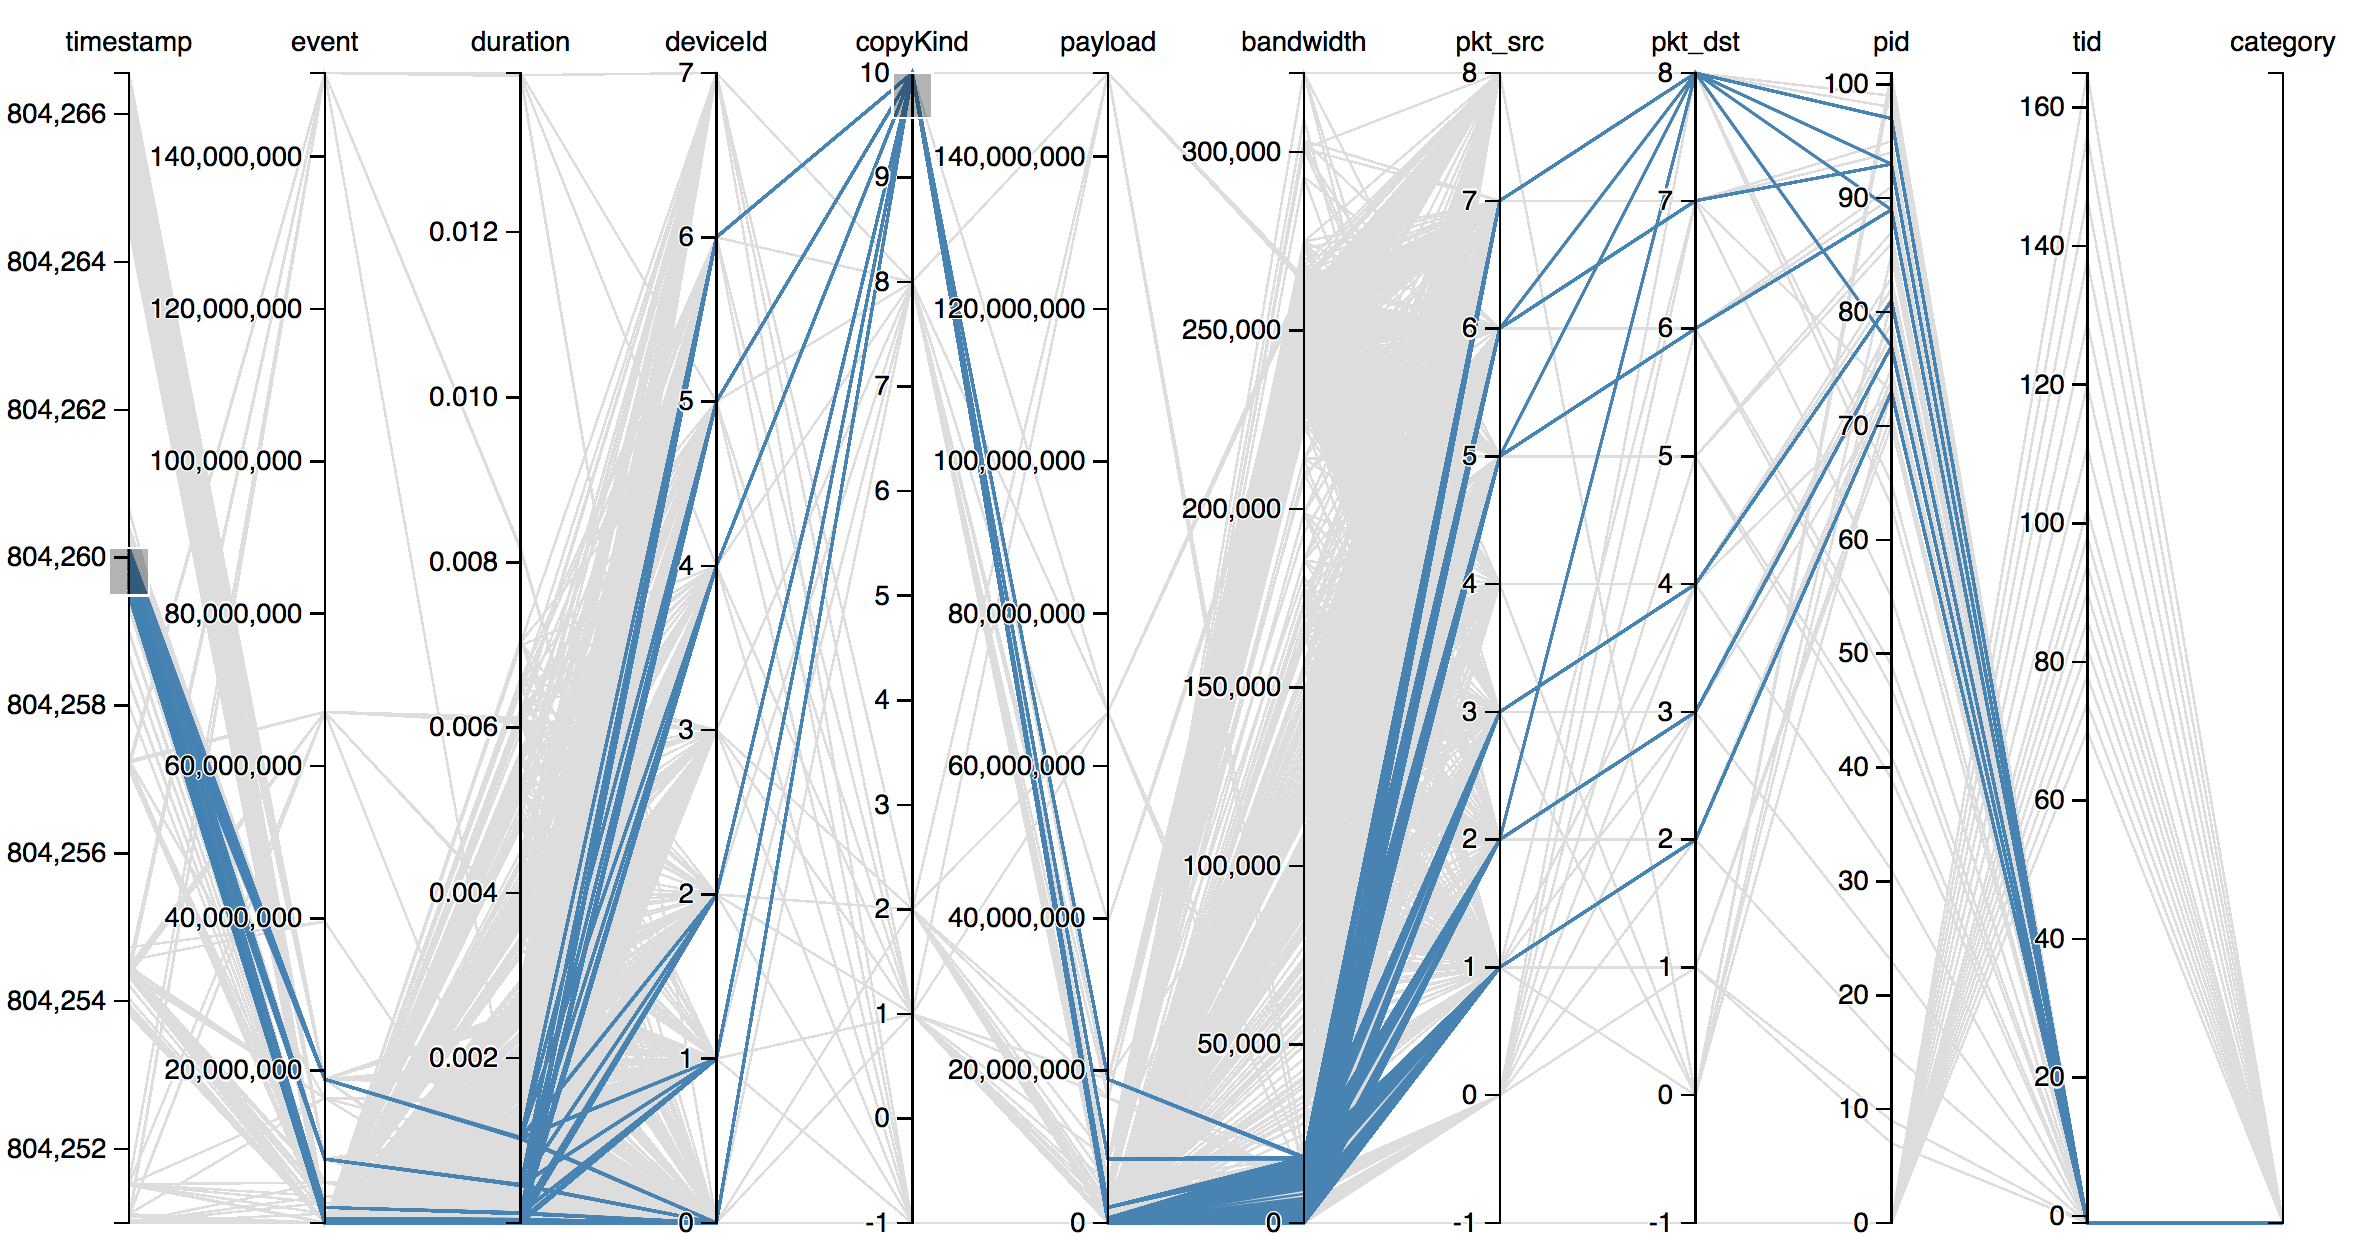
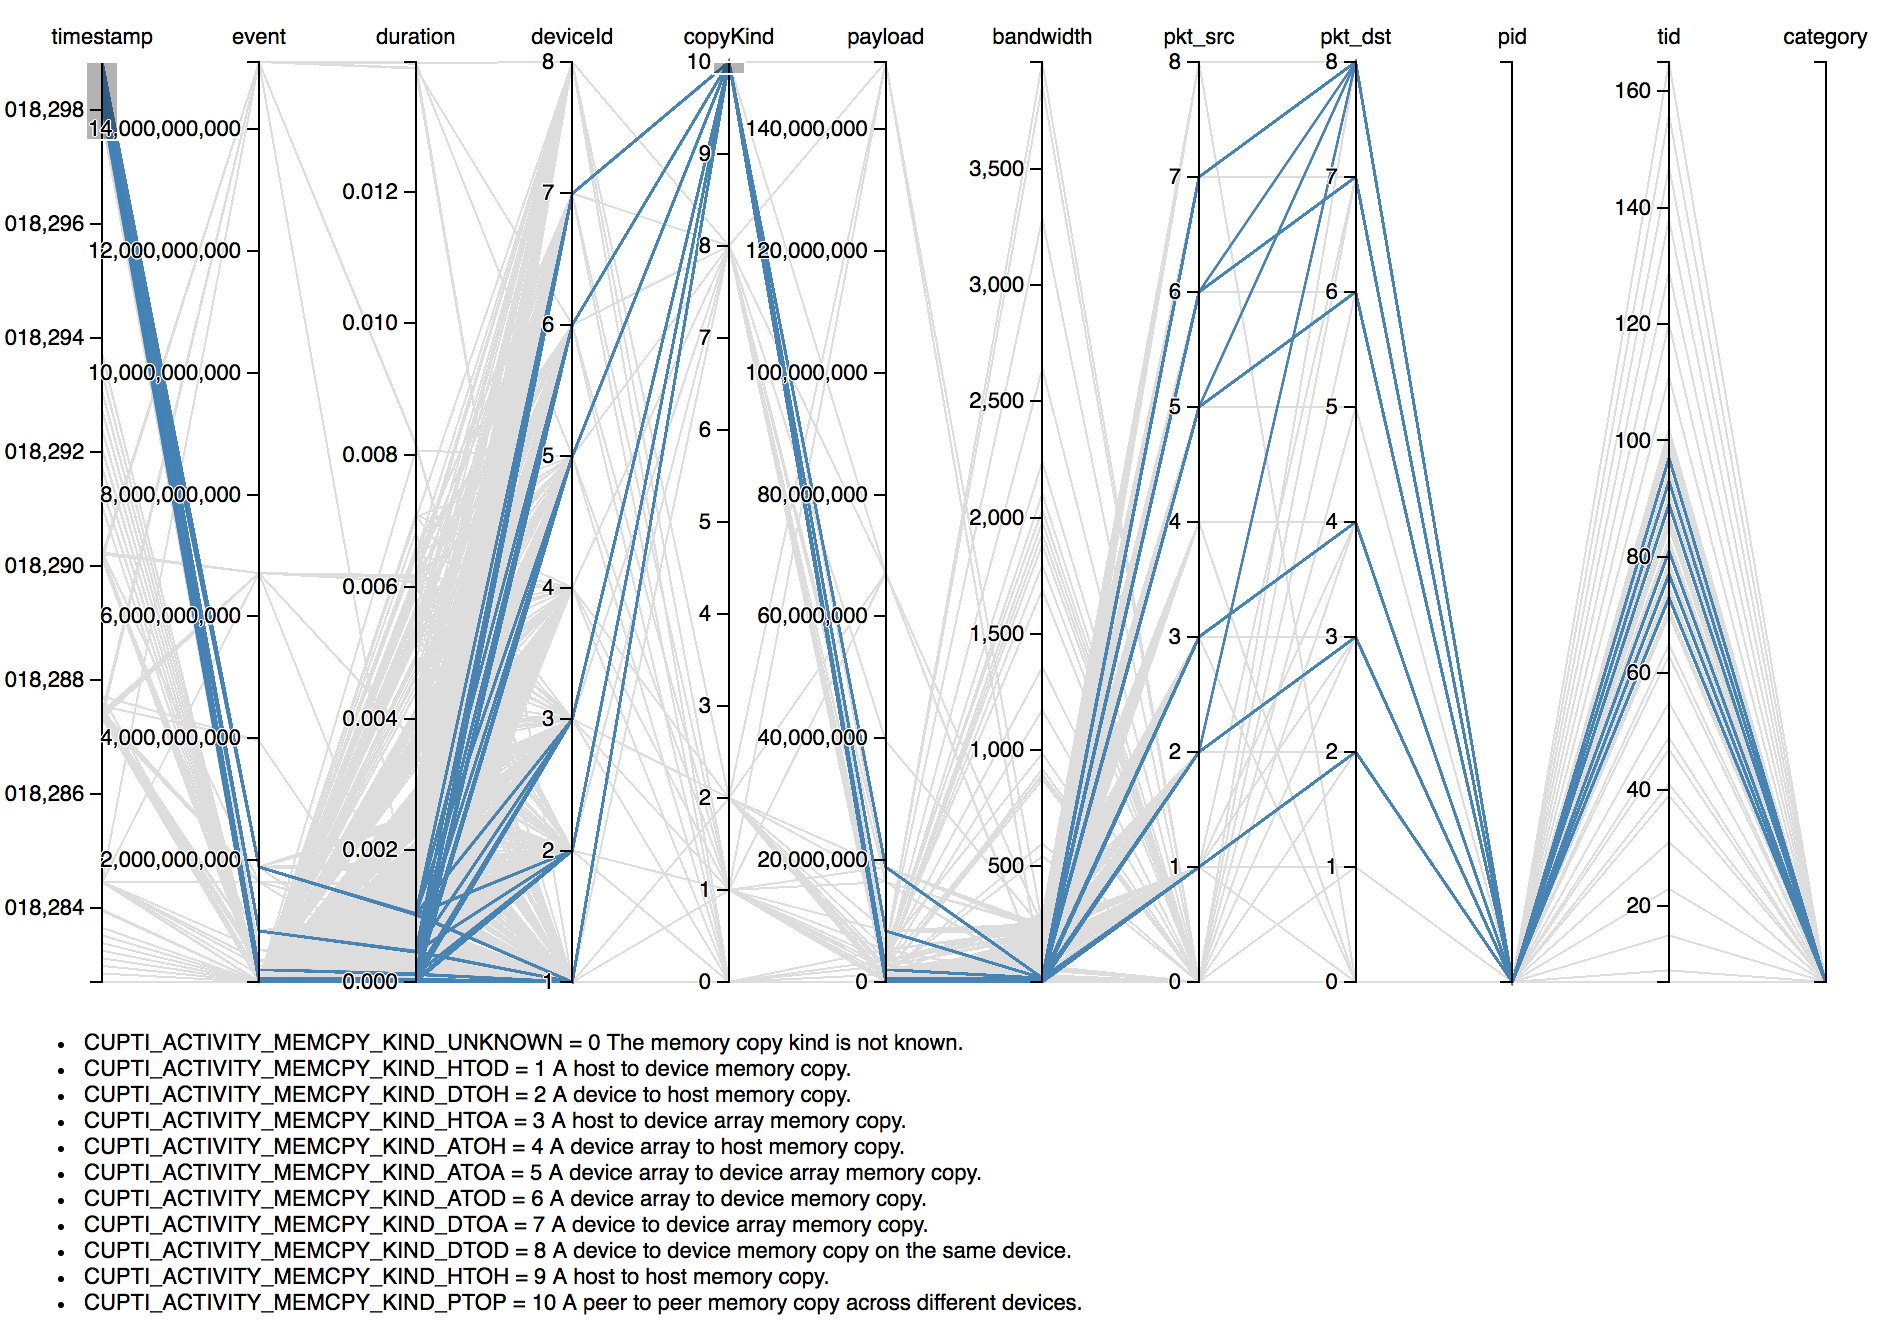
update figures

diff --git a/README.md b/README.md
@@ -62,7 +62,7 @@ To be edited. (How to add new items)
 ![Alt text](./figures/timeline.png)
 `sofa record "python tf_cnn_benchmarks.py --num_gpus=8 --batch_size=64 --model=resnet50 --variable_update=parameter_server --num_warmup_batches=1 --num_batches=3"`
 ![Alt text](./figures/timeline_zoomin.png)
-`sofa record "python tf_cnn_benchmarks.py --model=vgg16 --variable_update=replicated --local_parameter_device=gpu --all_reduce_spec=xring --num_warmup_batches=10 --batch_size=64 --num_batches=10 --num_gpus=8"`
+`sofa record "python tf_cnn_benchmarks.py --num_gpus=8 --batch_size=64 --model=alexnet --variable_update=replicated --all_reduce_spec=xring --num_warmup_batches=1 --num_batches=3"`
 ![Alt text](./figures/parcord.png)
 `sofa record "mpirun -f hosts.txt -n 4 ./compute_pi"`
 ![Alt text](./figures/mpi.png)
